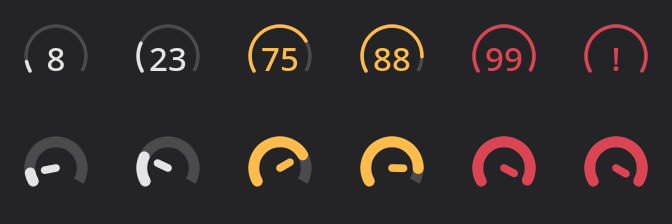
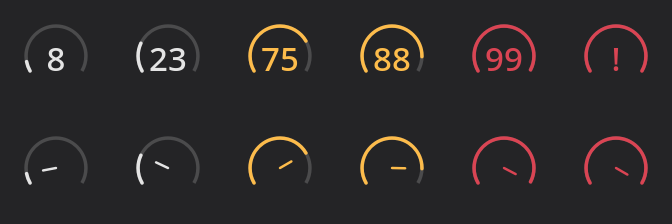
Draw both tray styles with one arc, so they are one mark
The gauge style used the arc at full weight while the percentage style drew it
at 0.32 - a 3x difference. That made the gauge read as a donut or a progress
widget rather than as the same dial with a different middle: from 75% up the
colour mass dominated the needle, and the two styles looked like two families
of icon. It also quietly contradicted the README, which promises the same dial
read two ways, and the name.

Both now use 0.32. Identical geometry, identical fill; only the middle differs
- a needle, or the number.

Judged at a real 16 and 22 px magnified without interpolation, not from a
scaled-up mock-up, which is the same discipline the file's own comments insist
on. A 1.4x middle option was rendered too; at 22 px it sits between the two
and at 16 px the 1.5 px stroke floor makes it indistinguishable from 0.32, so
identical won on the merits rather than only on principle.

The canonical geometry in GaugeGeometry.h is untouched, so the logo and its
guard test are unaffected, as is the popup header, which takes its weight from
QML.

diff --git a/src/tray/IconRenderer.cpp b/src/tray/IconRenderer.cpp
@@ -17,16 +17,22 @@ namespace {
 /// stays crisp instead of being downscaled from one large pixmap.
 constexpr int kSizes[] = { 16, 22, 24, 32, 48, 64 };
 
-/// How much lighter the arc is drawn when it holds a number instead of a needle.
+/// The arc's stroke weight in the tray, for both styles.
 ///
-/// In the gauge style the arc *is* the reading, so it carries full weight. Here
-/// the number is the reading and the arc is context, so it steps back - and it
-/// has to. A block of two digits is a rectangle inscribed in the arc's circle,
-/// so the interior radius has to cover half its diagonal, and at full weight it
-/// does not: at 0.45 and even at 0.38, 88 and 99 still touch the arc walls in a
-/// real panel. The arc's outer silhouette is unchanged by this, only its weight,
-/// so the two styles remain one mark.
-constexpr double kNumberArcScale = 0.32;
+/// The number style forced the value. A block of two digits is a rectangle
+/// inscribed in the arc's circle, so the interior radius has to cover half its
+/// diagonal, and at heavier weights it does not: at 0.45 and even at 0.38, 88
+/// and 99 still touch the arc walls in a real panel.
+///
+/// The gauge style then adopted it, which is the point. Drawn at full weight it
+/// read as a donut or a progress widget rather than as the same dial with a
+/// different middle - the colour mass dominated the needle from 75% up, and the
+/// two styles looked like two families of icon instead of one mark read two
+/// ways. Identical geometry, and only the middle differs: a needle, or the
+/// number. Checked at a real 16 and 22 px, magnified without interpolation
+/// rather than judged from a scaled-up mock-up; at 16 px the stroke floor makes
+/// the alternatives indistinguishable anyway.
+constexpr double kTrayArcScale = 0.32;
 
 /// Nudge the digits down a little. Below the centre the arc simply is not there
 /// - the gap is at the bottom - so this is clearance bought for free, and it is
@@ -75,7 +81,7 @@ void IconRenderer::paintNumberInArc(QPainter& painter, int size, double percenta
 
     // The same arc as the gauge style, drawn by the same function, with its
     // middle left for us.
-    gauge::paint(painter, bounds, percentage, { options.foreground, value }, kNumberArcScale,
+    gauge::paint(painter, bounds, percentage, { options.foreground, value }, kTrayArcScale,
                  gauge::Center::Empty);
 
     const QString text = percentage >= 100.0 ? QString::fromLatin1(kLimitGlyph)
@@ -112,7 +118,7 @@ QPixmap IconRenderer::renderPixmap(int size, std::optional<double> percentage,
         options.foreground,
         percentage ? colorFor(*percentage, options) : options.foreground,
     };
-    gauge::paint(painter, QRectF(0, 0, size, size), percentage, colors);
+    gauge::paint(painter, QRectF(0, 0, size, size), percentage, colors, kTrayArcScale);
 
     return pixmap;
 }
